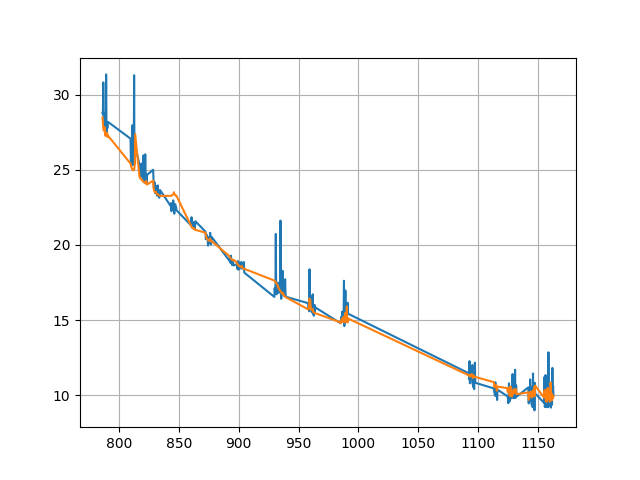
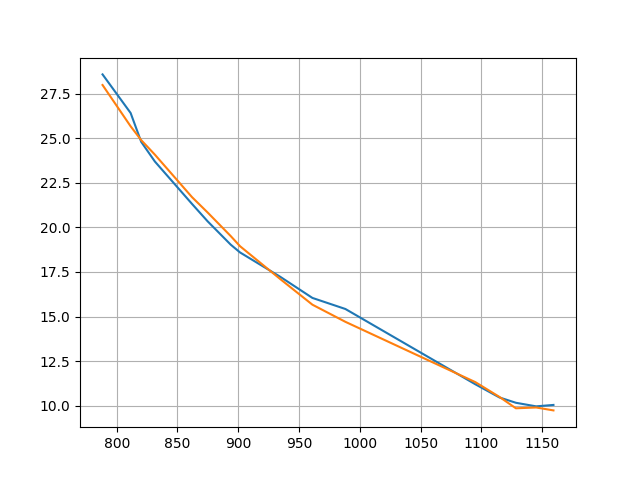
Backup

diff --git a/src/inp.py b/src/inp.py
@@ -43,7 +43,7 @@ uses the far-infrared windows. FIR_MCP incorporates the thermal-infrared and the
 nearest far-infrared window
 '''
 FIR_TIR = range(21)
-TIR = range(4, 21)
+TIR = range(4, 20)
 
 '''
 Microwindows which are used by L-IWP. This can be either one of the predefined
@@ -60,7 +60,7 @@ MAX_ALT = 30.0
 Deceide wether L-IWP shall convolve the calculated radiances with a boxcar or
 not.
 '''
-CONVOLVE = False
+CONVOLVE = True
 
 '''
 Resolution of the spectrum in cm-1. FTIR spectral radiances will be interpolated
@@ -76,7 +76,7 @@ Initial parameter mu for the Levenberg-Marquardt-Algorithm. The inversion follow
 The matrix D is D = np.diag(JT_W_J) * np.identity(len(MCP)
 If LM_INIT equals 0.0, then the iteration changes over to Gauss-Newton
 '''
-LM_INIT = 0.0001#1e2
+LM_INIT = 0.0#1e2
 
 '''
 Minimum value for mu. The parameter won't go below this value.
@@ -137,7 +137,7 @@ OFFSET = 0.0
 '''
 Parameters for the first guess: tau_total, f_ice, reff_liq, reff_ice
 '''
-MCP = [0.11,0.390,5.,40.]#[1., 1., 10., 30.]#[ 0.134,  0.373,  4.494, 32.262]#[ 0.093,  0.399,  4.493, 32.261]#[0.5, 0.5, 10., 30.]
+MCP = [0.191, 0.297, 10.012, 30.002]#[0.1,0.1,10.,30.]#[1., 1., 10., 30.]#[ 0.134,  0.373,  4.494, 32.262]#[ 0.093,  0.399,  4.493, 32.261]#[0.5, 0.5, 10., 30.]
 
 '''
 If this is set to true, then L-IWP searches for a file containing cloud height
@@ -162,8 +162,8 @@ MCP_APRIORI = np.array(MCP[:])
 The variance of the a priori and its weighting. This will be converted
 to the S_A matrix (watch comment of LM_INIT)
 '''
-VARIANCE_APRIORI = [4.0**(-2), 4.0**(-2), 40.0**(-2), 80.0**(-2)]
-WEIGHT_APRIORI = 1e-1#1.0
+VARIANCE_APRIORI = [4.0**(-2), 4.0**(-2), 10.0**(-2), 30.0**(-2)]
+WEIGHT_APRIORI = 1.0
 
 '''
 Only retrieve the total optical depth

diff --git a/src/inversion.py b/src/inversion.py
@@ -29,6 +29,8 @@ RL = 2
 RI = 3
 
 ALPHA = 1.0
+X_PREV = [0.0, 0.0, 0.0, 0.0]
+LOOP_PREV = 0
 
 def __retrieve_step(lm_param, loop_count):#, chi2, residuum):
     '''
@@ -117,7 +119,7 @@ def __retrieve_step(lm_param, loop_count):#, chi2, residuum):
     '''
     while this_tt < 0.0 or this_fi < 0.0 or this_fi > 100.0 or this_rl < 1.0 or this_ri < 1.0:
         #while this_rl < 1.0 or this_ri < 1.0:
-        lm_param = lm_param * 2
+        lm_param = lm_param * 2.0
         delta = numerical.iteration(residuum, lm_param, aux.T_MATRIX[-1])
         s_n = delta[0]
         t_matrix_new = delta[1]
@@ -183,7 +185,7 @@ def __convergence(lm_param, loop_count, conv_test):
     global ALPHA
     if loop_count != 0 or aux.MAX_ITER == 1:     
         condition = conv_test < inp.CONVERGENCE and ALPHA == 1.0 and lm_param <= 0.001
-        log.write("{} < {}? {} {}\n".format(conv_test, inp.CONVERGENCE, conv_test < inp.CONVERGENCE, condition))                       
+        #log.write("{} < {}? {} {}\n".format(conv_test, inp.CONVERGENCE, conv_test < inp.CONVERGENCE, condition))                       
 
         if loop_count != 0 and condition or loop_count == aux.MAX_ITER-1:
 
@@ -301,7 +303,7 @@ def __set_up_retrieval():
     '''
     Calculate the noise and the S_y matrix
     '''
-    #[aux.WAVENUMBER_FTIR, aux.RADIANCE_FTIR] = aux.average(aux.WAVENUMBER_FTIR[:], aux.RADIANCE_FTIR[:])
+    [aux.WAVENUMBER_FTIR, aux.RADIANCE_FTIR] = aux.average(aux.WAVENUMBER_FTIR[:], aux.RADIANCE_FTIR[:])
     #exit(-1)
     [variance_ra, aux.S_Y_INV_MATRIX] = aux.calc_noise()
 

diff --git a/src/aux2.py b/src/aux2.py
@@ -181,27 +181,27 @@ MICROWINDOWS[6] = [817.0, 823.5]
 #MICROWINDOWS[8] = [820.5, 824.4]
 MICROWINDOWS[7] = [828.3, 834.6]
 #MICROWINDOWS[10] = [835.8, 838.7]
-MICROWINDOWS[8] = [843.1, 848.1]
+#MICROWINDOWS[8] = [843.1, 848.1]
 #MICROWINDOWS[12] = [855.5, 858.0]
-MICROWINDOWS[9] = [860.1, 864.0]
+MICROWINDOWS[8] = [860.1, 864.0]
 #MICROWINDOWS[14] = [866.0, 870.0]
-MICROWINDOWS[10] = [872.2, 877.5]
+MICROWINDOWS[9] = [872.2, 877.5]
 #MICROWINDOWS[16] = [884.5, 886.0]
-MICROWINDOWS[11] = [891.9, 895.8]
-MICROWINDOWS[12] = [898.2, 904.8]
+MICROWINDOWS[10] = [891.9, 895.8]
+MICROWINDOWS[11] = [898.2, 904.8]
 #MICROWINDOWS[19] = [911.0, 913.0]
 #MICROWINDOWS[20] = [914.5, 917.0]
-MICROWINDOWS[13] = [929.6, 939.7]
-MICROWINDOWS[14] = [958.0, 964.3]
-MICROWINDOWS[15] = [985.0, 991.5]
+MICROWINDOWS[12] = [929.6, 939.7]
+MICROWINDOWS[13] = [958.0, 964.3]
+MICROWINDOWS[14] = [985.0, 991.5]
 #MICROWINDOWS[22] = [931.5, 932.0]
 #MICROWINDOWS[16] = [1076.6, 1084.8]
-MICROWINDOWS[16] = [1092.2, 1098.1]
+MICROWINDOWS[15] = [1092.2, 1098.1]
 #MICROWINDOWS[24] = [1102.5, 1105.0]
-MICROWINDOWS[17] = [1113.3, 1116.6]
-MICROWINDOWS[18] = [1124.4, 1132.6]
-MICROWINDOWS[19] = [1142.2, 1148.0]
-MICROWINDOWS[20] = [1155.2, 1163.4]
+MICROWINDOWS[16] = [1113.3, 1116.6]
+MICROWINDOWS[17] = [1124.4, 1132.6]
+MICROWINDOWS[18] = [1142.2, 1148.0]
+MICROWINDOWS[19] = [1155.2, 1163.4]
 
 TEMP_OF_CLOUD = 0.0
 ENABLE_LM_DURING_ITER = True

diff --git a/TCWret.py b/TCWret.py
@@ -50,6 +50,6 @@ spec = spectrum.split("/")[-1]
 '''
 Start the retrieval with high resolution
 '''    
-subprocess.call(["python3", "src/main.py", spectrum, windows, "20", "1", str(resolution_retrieval), str(tt), str(fi), str(rl), str(ri), "0", "0", "0", directory])
+subprocess.call(["python3", "src/main.py", spectrum, windows, "20", "0", str(resolution_retrieval), str(tt), str(fi), str(rl), str(ri), "0", "0", "0", directory])
 #os.system("mv {}/{} /home/phi.richter/OUTFOLDER_slayer/{}".format(path, spectrum.split("/")[-1], spectrum.split("/")[-1]))
 #shutil.rmtree("{}/{}/{}".format(path, spectrum.split("/")[-1], directory)) 

diff --git a/src/run_lbldis.py b/src/run_lbldis.py
@@ -62,8 +62,8 @@ def forward_run(atmospheric_param, thread_fact, lblrtm, file_num):
     #elif inp.SKIP_SN:
     #    aux.RADIANCE_SKIP[file_num] = np.array(radiance)
     #else:
-    aux.RADIANCE_LBLDIS[file_num].append(np.array(radiance))
-    #aux.RADIANCE_LBLDIS[file_num].append(aux.average(np.array(aux.WAVENUMBER_FTIR), np.array(radiance))[1])
+    #aux.RADIANCE_LBLDIS[file_num].append(np.array(radiance))
+    aux.RADIANCE_LBLDIS[file_num].append(aux.average(np.array(aux.WAVENUMBER_FTIR), np.array(radiance))[1])
 
     return
 
